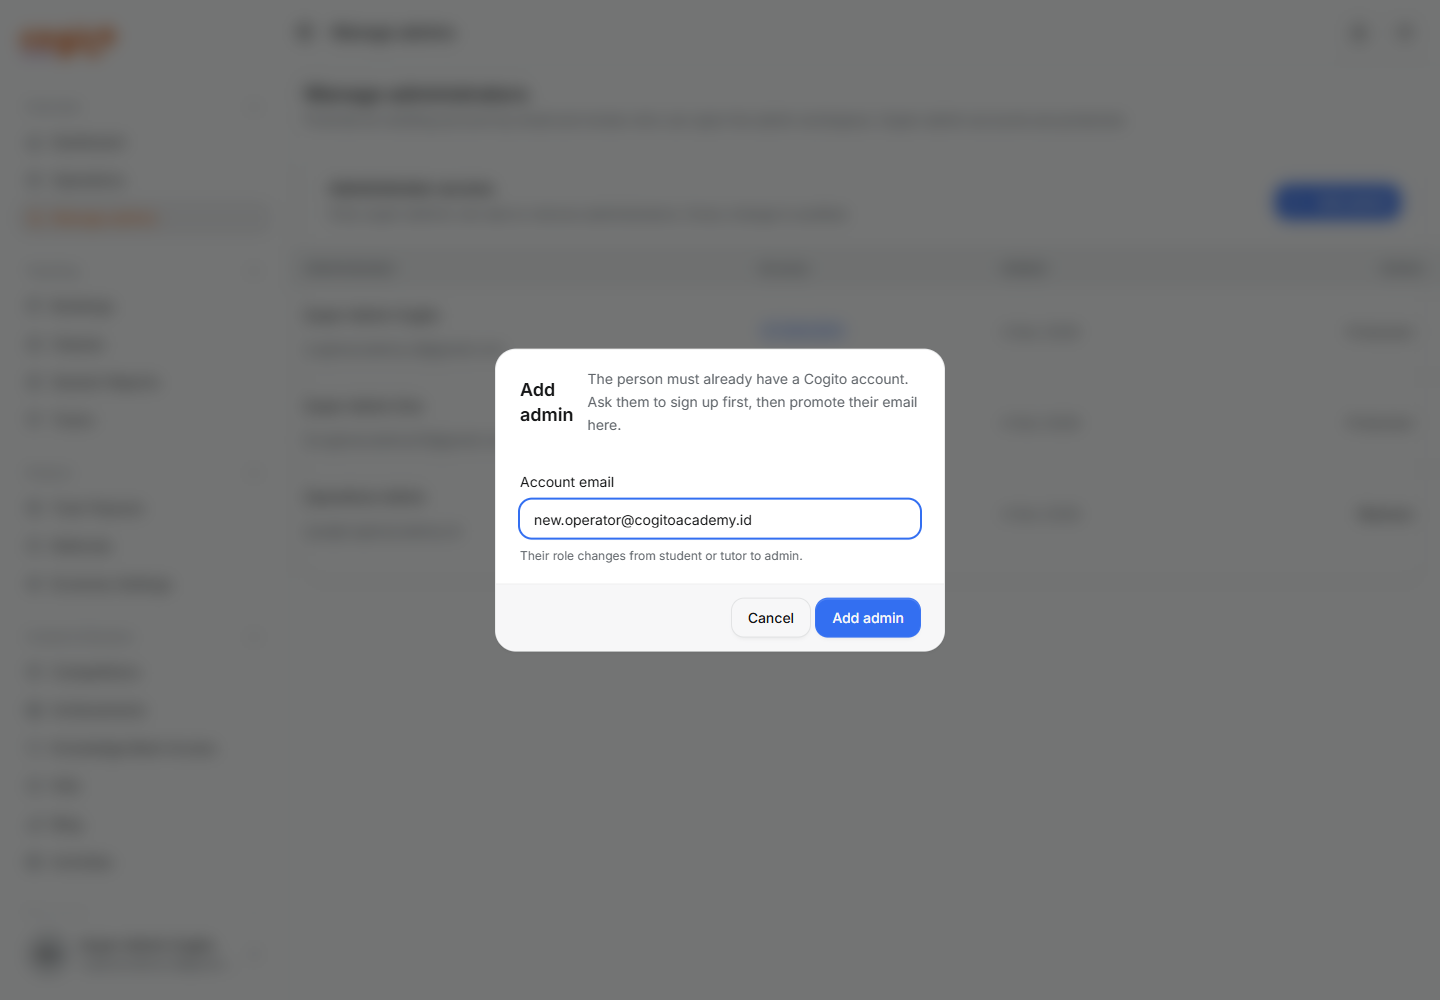
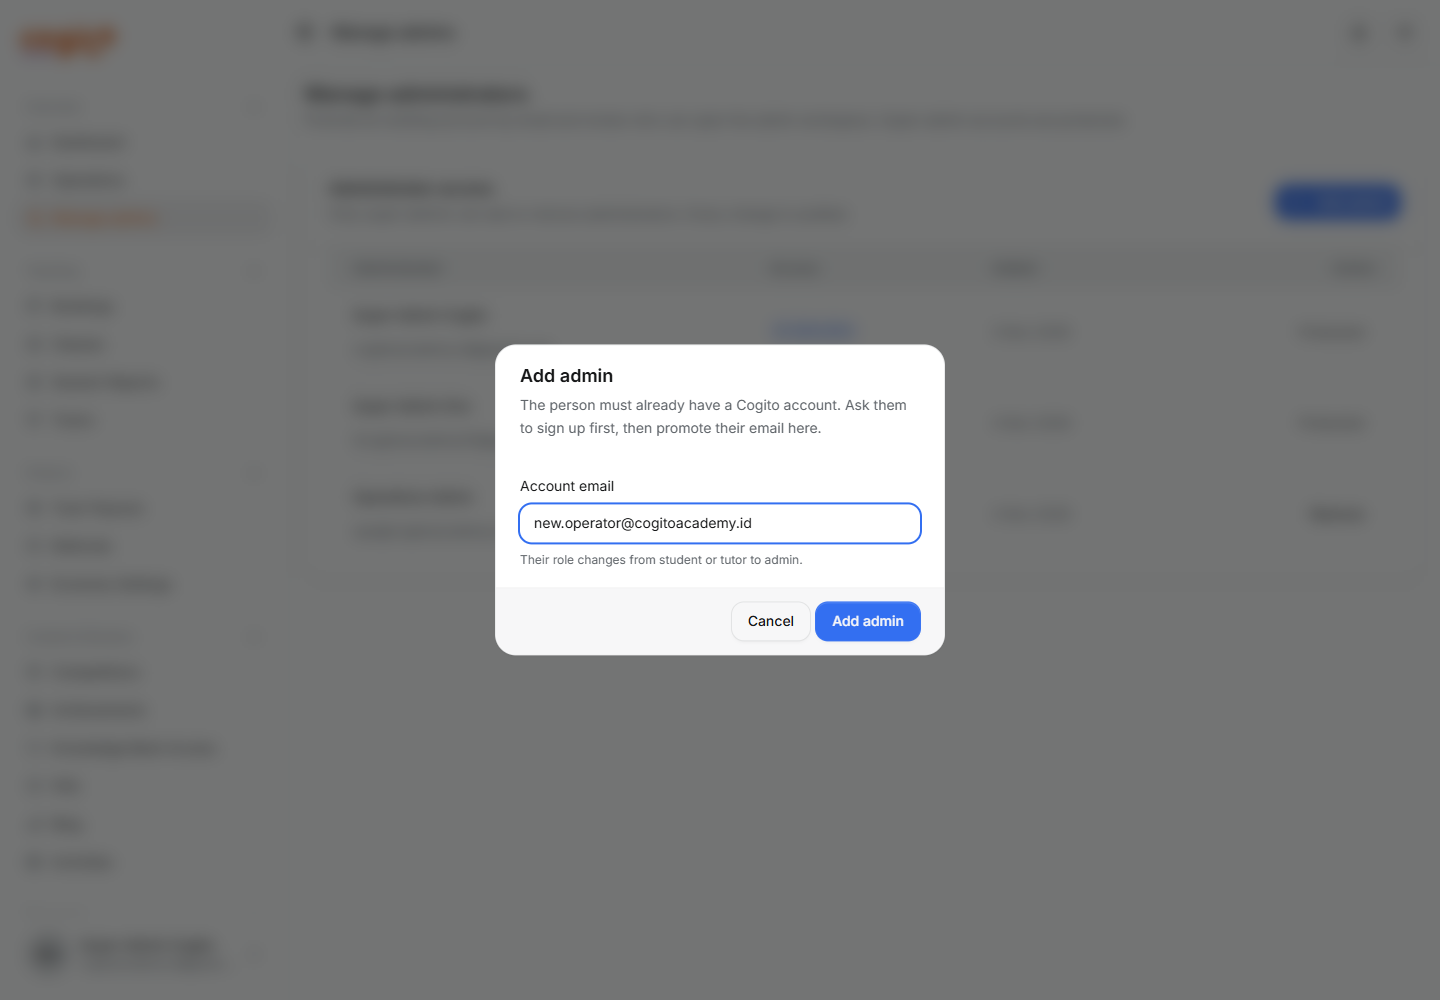
fix(admin): inset roster table and stack dialog headers
The roster table now sits inside the card padding on desktop and mobile instead of bleeding past the card edge. Add/remove admin and resolve-ticket dialogs stack title and description.

Changed region(s): [[0.3438, 0.341, 0.6562, 0.434], [0.3438, 0.465, 0.6562, 0.589], [0.3438, 0.589, 0.6562, 0.682]]

diff --git a/apps/web/src/components/admin/admin-admins-page.tsx b/apps/web/src/components/admin/admin-admins-page.tsx
@@ -158,9 +158,9 @@ export function AdminAdminsPage() {
             </Button>
           </CardHeaderAction>
         </CardHeader>
-        <CardBody className="p-0!">
+        <CardBody className="p-6">
           {adminsQuery.isPending ? (
-            <div className="p-6">
+            <div className="p-2">
               <Loader />
             </div>
           ) : adminsQuery.isError ? (
@@ -187,12 +187,14 @@ export function AdminAdminsPage() {
               className="p-10"
             />
           ) : (
-            <TableContainer>
+            <TableContainer className="mx-0! w-full!">
               <Table>
                 <TableHeader>
                   <TableRow>
                     <TableHead>Administrator</TableHead>
-                    <TableHead>Access</TableHead>
+                    <TableHead className="hidden sm:table-cell">
+                      Access
+                    </TableHead>
                     <TableHead className="hidden sm:table-cell">
                       Added
                     </TableHead>
@@ -208,6 +210,17 @@ export function AdminAdminsPage() {
                         <Stack direction="column" spacing="sm">
                           <Text className="font-medium">{admin.name}</Text>
                           <Text className="text-muted">{admin.email}</Text>
+                          <span className="sm:hidden">
+                            {admin.isSuperAdmin ? (
+                              <Badge variant="primary" size="sm">
+                                <IconShieldCheck /> Super admin
+                              </Badge>
+                            ) : (
+                              <Badge variant="secondary" size="sm">
+                                Admin
+                              </Badge>
+                            )}
+                          </span>
                           <Button
                             variant="plain"
                             size="sm"
@@ -219,7 +232,7 @@ export function AdminAdminsPage() {
                           </Button>
                         </Stack>
                       </TableCell>
-                      <TableCell>
+                      <TableCell className="hidden sm:table-cell">
                         {admin.isSuperAdmin ? (
                           <Badge variant="primary" size="sm">
                             <IconShieldCheck /> Super admin
@@ -265,7 +278,7 @@ export function AdminAdminsPage() {
         }}
       >
         <DialogPopup>
-          <DialogHeader>
+          <DialogHeader className="flex-col items-start gap-1.5">
             <DialogTitle>Add admin</DialogTitle>
             <DialogDescription>
               The person must already have a Cogito account. Ask them to sign up
@@ -307,7 +320,7 @@ export function AdminAdminsPage() {
         }}
       >
         <DialogPopup>
-          <DialogHeader>
+          <DialogHeader className="flex-col items-start gap-1.5">
             <DialogTitle>Remove admin access?</DialogTitle>
             <DialogDescription>
               {removeTarget

diff --git a/apps/web/src/components/admin/support-tickets-panel.tsx b/apps/web/src/components/admin/support-tickets-panel.tsx
@@ -369,7 +369,7 @@ export function SupportTicketsPanel() {
         }}
       >
         <DialogPopup>
-          <DialogHeader>
+          <DialogHeader className="flex-col items-start gap-1.5">
             <DialogTitle>
               {selected?.status === "resolved" || selected?.status === "closed"
                 ? "Support ticket"
